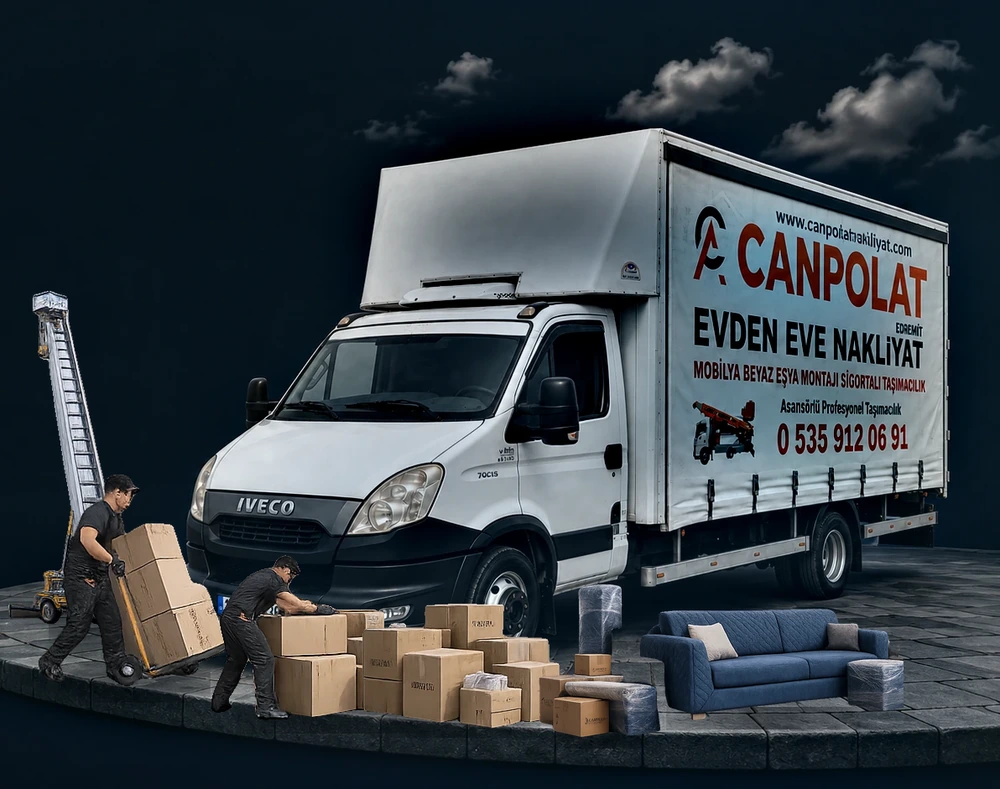
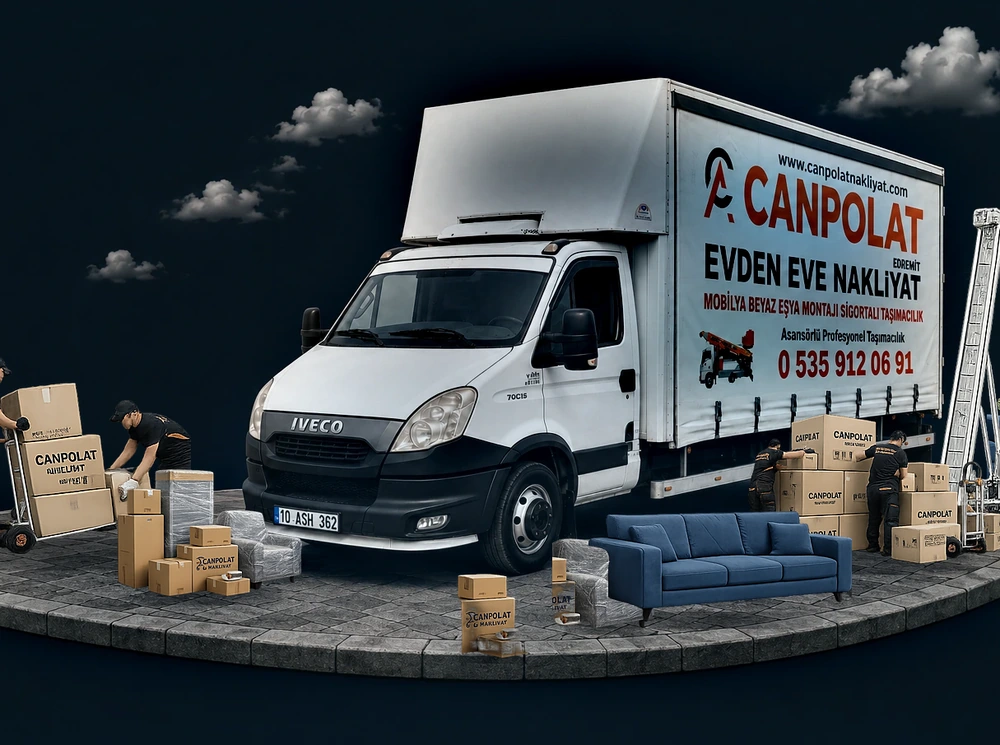
feat: hero sahnesini yeni kaynaklarla ve keskin kesimle yenile
- Kesimlerde maske yumuşatma kapatıldı; alfa kontrast eğrisiyle ~1 piksel
  geçişe indirildi, küçültme sonrası unsharp uygulandı — kenarlar net
- Parçalara renk müdahalesi yapılmıyor, orijinal pikseller korunuyor
- Yerleşim reference.png hero düzenine göre yeniden kuruldu: sol ekip,
  öndeki koliler, mavi koltuk ve streçli eşyalar, sağ ekip, asansörlü
  araç ve arkadaki bitki; tümü platformun zemin eğrisine oturuyor
- Rota, kaynaktaki halka biçimine göre yeniden çizildi
- Mobil kadraj yeniden ayarlandı (1000x745), CSS oranı güncellendi

Claude-Session: https://claude.ai/code/session_01PXnhZMionRndf1xAmYP6PJ

diff --git a/css/style.css b/css/style.css
@@ -1435,7 +1435,7 @@ html.is-menu-open body { overflow: hidden; }
   .trust-item { padding: 0 12px; }
   .trust-item__text { font-size: 11.5px; }
   /* Dar çerçeveli sahne sürümünün oranı */
-  .hero__image { aspect-ratio: 1000 / 789; }
+  .hero__image { aspect-ratio: 1000 / 745; }
   .hero__badge { display: none; }
 
   /* Hizmetler: 3 sütun */

diff --git a/tools/hero/compose.py b/tools/hero/compose.py
@@ -1,49 +1,48 @@
 #!/usr/bin/env python3
 """Hero sahnesini parçalardan yeniden üretir.
 
-Çıktılar:
-    assets/images/hero-canpolat.webp        1600 x 900  (masaüstü, 16:9)
-    assets/images/hero-canpolat-mobil.webp  1000 x 789  (tablet + mobil, dar çerçeve)
+Sahne, kamyon fotoğrafının taş platformu üzerine kurulur; tüm parçalar
+platformun ön kenarından ölçülen zemin eğrisine oturur. Yerleşim
+`reference.png` içindeki hero düzeni esas alınarak belirlenmiştir.
 
-Parçalar `parts/` klasöründedir; hepsi kaynak fotoğraflardan kesilmiş
-şeffaf WebP dosyalarıdır. `base.webp` kamyon + taş zemin + bulut katmanıdır
-ve arka planı site rengine (#06121b) eşitlenmiştir.
+Çıktılar:
+    assets/images/hero-canpolat.webp        1600 x 900  (992 px ve üzeri, 16:9)
+    assets/images/hero-canpolat-mobil.webp  1000 x 786  (991 px ve altı, dar çerçeve)
 
 Kullanım:
     python3 tools/hero/compose.py
 """
 import os
 from PIL import Image, ImageDraw, ImageFilter
-from route_draw import draw_route
+from route_draw import catmull, dashes, draw_pin
 
 HERE = os.path.dirname(os.path.abspath(__file__))
 PARTS = os.path.join(HERE, 'parts')
 OUT = os.path.abspath(os.path.join(HERE, '..', '..', 'assets', 'images'))
 
+ORANGE = (255, 106, 12)
+
+# Kamyon + taş platform + bulut katmanı; arka planı site rengine eşitlenmiş
 base = Image.open(os.path.join(PARTS, 'base.webp')).convert('RGB')
-W, H = base.size
+W, H = base.size          # 1536 x 1024
 canvas = base.copy()
 
+# Masaüstü ve mobil kadrajlar (base üzerinden)
+CROP_DESKTOP = (150, 140, 1536, 920)   # 1386 x 780  -> 16:9
+CROP_MOBILE = (255, 95, 1470, 1000)    # 1215 x 905  -> dar çerçeve
+
 # --------------------------------------------------------------------------
-# Taş platformun ön kenarı — parçalar bu eğriye oturur
+# Platformun ön kenarı — parçalar bu eğriye oturur (base koordinatları)
 # --------------------------------------------------------------------------
-GX = list(range(400, 1680, 40))
-GY_RAW = [745, 770, 787, 798, 806, 812, 819, 836, 850, 849, 848, 861, 875, 879,
-          883, 888, 893, 887, 881, 892, 903, 897, 890, 884, 877, 876, 876, 875,
-          874, 872, 871, 870]
-
-
-def smooth(vals, k=3):
-    return [sum(vals[max(0, i - k):min(len(vals), i + k + 1)]) /
-            len(vals[max(0, i - k):min(len(vals), i + k + 1)])
-            for i in range(len(vals))]
-
-
-GY = smooth(GY_RAW)
+GX = [x + 150 for x in range(0, 1400, 40)]
+GY = [y + 140 for y in
+      [686, 698, 690, 705, 718, 726, 728, 733, 745, 753, 760, 764, 768, 769,
+       774, 777, 778, 778, 774, 771, 776, 774, 768, 768, 758, 759, 755, 749,
+       738, 729, 722, 713, 700, 688, 670]]
 
 
 def ground_y(x):
-    """x sütununda platformun ön kenarının y değeri (doğrusal interpolasyon)."""
+    """x sütununda platformun ön kenarının y değeri."""
     if x <= GX[0]:
         return GY[0]
     if x >= GX[-1]:
@@ -56,69 +55,79 @@ def ground_y(x):
 
 
 def contact_shadow(w, h, alpha):
-    sh = Image.new('L', (w, max(10, h)), 0)
+    sh = Image.new('L', (w, max(8, h)), 0)
     ImageDraw.Draw(sh).ellipse([0, 0, w - 1, sh.height - 1], fill=alpha)
-    return sh.filter(ImageFilter.GaussianBlur(max(5, w * 0.05)))
+    return sh.filter(ImageFilter.GaussianBlur(max(4, w * 0.045)))
 
 
-def cool(im, mul=(0.98, 0.99, 1.05)):
-    """Sıcak ışıklı parçaları kamyon sahnesinin soğuk tonuna yaklaştırır."""
-    r, g, b, a = im.split()
-    return Image.merge('RGBA', (
-        r.point(lambda v: min(255, int(v * mul[0]))),
-        g.point(lambda v: min(255, int(v * mul[1]))),
-        b.point(lambda v: min(255, int(v * mul[2]))), a))
+def place(name, x, depth, scale, flip=False, shadow_w=0.78, shadow_a=110):
+    """Parçayı, tabanı zemin eğrisinin `depth` piksel üstünde olacak şekilde koyar.
 
-
-def place(name, x, depth=0, scale=1.0, flip=False, shadow_w=0.8, shadow_a=125):
-    """Parçayı, tabanı zemin eğrisinin `depth` piksel üstünde olacak şekilde koyar."""
+    Kenarlar keskin kalır: maske yumuşatması yapılmaz, küçültme sonrası
+    unsharp ile netlik geri verilir.
+    """
     im = Image.open(os.path.join(PARTS, f'{name}.webp')).convert('RGBA')
     im = im.crop(im.getbbox())
     if flip:
         im = im.transpose(Image.FLIP_LEFT_RIGHT)
-    nw, nh = max(1, round(im.width * scale)), max(1, round(im.height * scale))
-    im = cool(im.resize((nw, nh), Image.LANCZOS))
 
-    base_y = round(ground_y(x) - depth)
+    nw, nh = max(1, round(im.width * scale)), max(1, round(im.height * scale))
+    im = im.resize((nw, nh), Image.LANCZOS)
+    if scale < 0.95:
+        rgb = Image.merge('RGB', im.split()[:3]).filter(
+            ImageFilter.UnsharpMask(radius=1.1, percent=70, threshold=2))
+        im = Image.merge('RGBA', (*rgb.split(), im.split()[3]))
+
+    by = round(ground_y(x) - depth)
     sw = round(nw * shadow_w)
-    sh = contact_shadow(sw, round(nh * 0.20), shadow_a)
+    sh = contact_shadow(sw, round(nh * 0.16), shadow_a)
     canvas.paste(Image.new('RGB', sh.size, (2, 7, 11)),
-                 (round(x - sw / 2), round(base_y - sh.height * 0.6)), sh)
-    canvas.paste(im, (round(x - nw / 2), base_y - nh), im)
+                 (round(x - sw / 2), round(by - sh.height * 0.55)), sh)
+    canvas.paste(im, (round(x - nw / 2), by - nh), im)
 
 
 def paste_route():
-    """Dekoratif turuncu rota + konum işareti (arkada, metni kapatmaz)."""
-    ctrl = [(52, 402), (170, 438), (300, 372), (392, 286), (498, 232), (612, 262)]
-    glow, line = draw_route((W, H), ctrl, (392, 250))
+    """Dekoratif turuncu rota + konum işareti (kaynak görseldeki şekil)."""
+    layer = Image.new('RGBA', (W, H), (0, 0, 0, 0))
+    d = ImageDraw.Draw(layer)
+    ctrl = [(750, 192), (620, 180), (500, 218), (412, 268), (358, 350),
+            (364, 440), (418, 496), (490, 512)]
+    for seg in dashes(catmull(ctrl), dash=15, gap=12):
+        d.line(seg, fill=ORANGE + (240,), width=4, joint='curve')
+    draw_pin(d, 408, 260, r=17, color=ORANGE, hole=(6, 20, 30))
+
+    glow = layer.filter(ImageFilter.GaussianBlur(15))
+    glow.putalpha(glow.getchannel('A').point(lambda v: int(v * 0.5)))
     canvas.paste(Image.alpha_composite(Image.new('RGBA', (W, H), (0, 0, 0, 0)), glow)
                  .convert('RGB'), (0, 0), glow.getchannel('A'))
-    canvas.paste(line.convert('RGB'), (0, 0), line.getchannel('A'))
+    canvas.paste(layer.convert('RGB'), (0, 0), layer.getchannel('A'))
 
 
-def build(with_route):
-    """Sahneyi kurar. Mobil sürümde rota yoktur (kadraj dışında kalır)."""
+def build(with_route=True):
+    """Sahneyi arkadan öne doğru kurar."""
     global canvas
     canvas = base.copy()
     if with_route:
         paste_route()
-    place('lift',    578, depth=56, scale=0.90, flip=True, shadow_w=0.45, shadow_a=85)
-    place('w_hand',  640, depth=6,  scale=1.06, shadow_a=120)
-    place('w_pack',  880, depth=10, scale=1.00, shadow_a=115)
-    place('w_boxes', 1030, depth=18, scale=0.88, shadow_a=105)
-    place('s_left',  1195, depth=12, scale=0.40, shadow_a=110)
-    place('s_sofa',  1400, depth=20, scale=0.48, shadow_a=118)
+    place('plant',     1495, depth=125, scale=0.58, shadow_a=70)   # arkadaki bitki
+    place('lift',      1430, depth=100, scale=0.84, shadow_w=0.5, shadow_a=80)
+    place('grp_right', 1318, depth=88,  scale=0.54, shadow_a=100)  # sağ ekip + koliler
+    place('grp_left',  328,  depth=92,  scale=0.73, shadow_a=105)  # sol ekip + el arabası
+    place('stack',     510,  depth=74,  scale=0.34, shadow_a=100)  # streçli eşya + koli
+    place('wrapped',   988,  depth=56,  scale=0.42, shadow_a=105)  # streçli koltuk
+    place('sofa',      1130, depth=48,  scale=0.50, shadow_a=112)  # mavi koltuk
+    place('boxes_sm',  850,  depth=22,  scale=0.40, shadow_a=105)  # öndeki koliler
     return canvas
 
 
-# Masaüstü: 16:9 tam sahne
-desktop = build(with_route=True).resize((1600, 900), Image.LANCZOS)
-desktop.save(os.path.join(OUT, 'hero-canpolat.webp'), quality=92, method=6)
+# Masaüstü: 16:9 geniş sahne, rota dahil
+desktop = build(True).crop(CROP_DESKTOP).resize((1600, 900), Image.LANCZOS)
+desktop.save(os.path.join(OUT, 'hero-canpolat.webp'), quality=93, method=6)
 
-# Tablet + mobil: soldaki boşluk kırpılmış dar çerçeve, rota yok
-mobile = build(with_route=False).crop((480, 0, W, H))
+# Tablet + mobil: dar çerçeve, rota kadraj dışında
+mobile = build(False).crop(CROP_MOBILE)
 mobile = mobile.resize((1000, round(1000 * mobile.height / mobile.width)), Image.LANCZOS)
-mobile.save(os.path.join(OUT, 'hero-canpolat-mobil.webp'), quality=92, method=6)
+mobile.save(os.path.join(OUT, 'hero-canpolat-mobil.webp'), quality=93, method=6)
 
 print('hero-canpolat.webp', desktop.size)
 print('hero-canpolat-mobil.webp', mobile.size)

diff --git a/tools/hero/route_draw.py b/tools/hero/route_draw.py
@@ -40,7 +40,7 @@ def dashes(curve, dash=16, gap=13):
         segs.append(cur)
     return segs
 
-def pin(draw, x, y, r=17, color=ORANGE, hole=(6, 20, 30)):
+def draw_pin(draw, x, y, r=17, color=ORANGE, hole=(6, 20, 30)):
     draw.ellipse([x - r, y - r, x + r, y + r], fill=color)
     draw.polygon([(x - r * 0.72, y + r * 0.62), (x + r * 0.72, y + r * 0.62),
                   (x, y + r * 2.35)], fill=color)
@@ -52,7 +52,7 @@ def draw_route(size, ctrl, pin_at, width=4):
     curve = catmull(ctrl)
     for seg in dashes(curve):
         d.line(seg, fill=ORANGE + (235,), width=width, joint='curve')
-    pin(d, *pin_at)
+    draw_pin(d, *pin_at)
     glow = layer.filter(ImageFilter.GaussianBlur(16))
     glow.putalpha(glow.getchannel('A').point(lambda v: int(v * 0.55)))
     return glow, layer

diff --git a/tools/hero/README.md b/tools/hero/README.md
@@ -17,7 +17,7 @@ python3 compose.py     # Pillow gerekir:  pip install pillow
 | Dosya | Ölçü | Kullanım |
 | --- | --- | --- |
 | `assets/images/hero-canpolat.webp` | 1600 × 900 | 992 px ve üzeri (16:9 geniş sahne, rota dahil) |
-| `assets/images/hero-canpolat-mobil.webp` | 1000 × 789 | 991 px ve altı (dar çerçeve, kamyon daha büyük) |
+| `assets/images/hero-canpolat-mobil.webp` | 1000 × 745 | 991 px ve altı (dar çerçeve, kamyon daha büyük) |
 
 Her iki dosya da `index.html` içindeki `<picture>` etiketiyle seçilir.
 
@@ -26,12 +26,14 @@ Her iki dosya da `index.html` içindeki `<picture>` etiketiyle seçilir.
 | Dosya | İçerik |
 | --- | --- |
 | `base.webp` | Kamyon + taş platform + bulutlar. Arka planı site rengine (`#06121b`) eşitlenmiştir. |
+| `grp_left.webp` | Sol ekip: el arabalı işçi + koli paketleyen işçi + koliler |
+| `grp_right.webp` | Sağ ekip: iki işçi + koli yığını + el arabası |
+| `stack.webp` | Streçlenmiş eşyalar ve koliler |
+| `wrapped.webp` | Streçlenmiş koltuk |
+| `sofa.webp` | Mavi koltuk |
+| `boxes_sm.webp` | Öndeki küçük koliler |
+| `plant.webp` | Saksı bitkisi (arka plan) |
 | `lift.webp` | İnsansız asansörlü taşıma aracı |
-| `w_hand.webp` | El arabalı işçi |
-| `w_pack.webp` | Koli paketleyen işçi |
-| `w_boxes.webp` | Koli yığını |
-| `s_left.webp` | Streçlenmiş eşyalar ve koliler |
-| `s_sofa.webp` | Mavi koltuk ve puf |
 
 ## Sahneyi değiştirme
 
@@ -52,6 +54,10 @@ place('s_sofa', 1400, depth=20, scale=0.48, shadow_a=118)
 Parçaların tabanı `ground_y()` eğrisine oturur; bu eğri kamyon görselindeki taş
 platformun ön kenarından ölçülmüştür, bu yüzden hiçbir parça havada kalmaz.
 
+Kesim sırasında maske yumuşatması (`post_process_mask`) kullanılmaz; alfa kanalı
+kontrast eğrisiyle ~1 piksellik geçişe indirilir ve küçültme sonrası unsharp
+uygulanır. Böylece parçaların kenarları bulanıklaşmaz.
+
 Dekoratif turuncu rota `route_draw.py` ile vektörel çizilir (kaynak görseldeki
 bulutlu gri zemin kullanılmaz). Rota yalnızca masaüstü sürümünde yer alır.
 
@@ -65,7 +71,7 @@ python3 -c "
 from rembg import remove, new_session
 from PIL import Image
 im = Image.open('kaynak.png').convert('RGB').crop((x0, y0, x1, y1))
-remove(im, session=new_session('isnet-general-use'), post_process_mask=True).save('parts/yeni.webp')
+remove(im, session=new_session('isnet-general-use')).save('parts/yeni.webp')  # yumuşatma yok
 "
 ```
 
